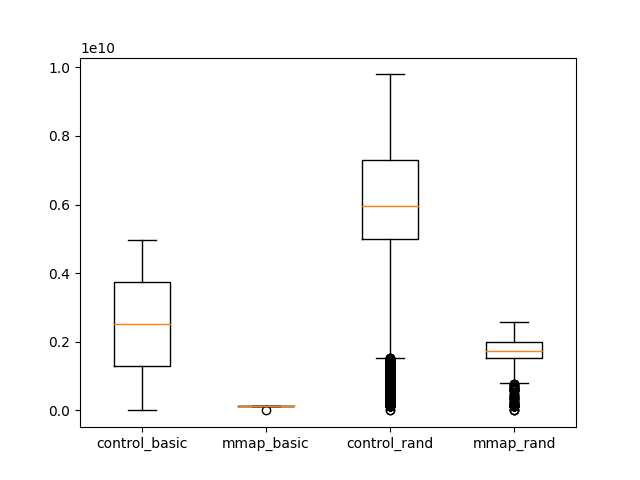
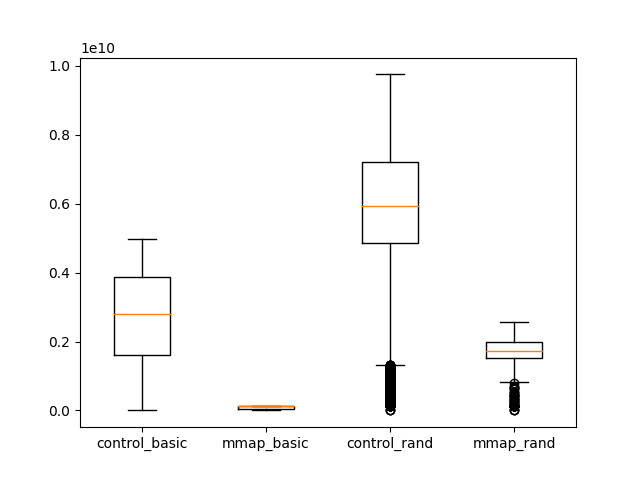
mmap_test: Timing Data
Starting MMap stress test

Starting basic control test
Starting iteration 0
Starting worker process 14991
exec time = 3.9298479557037354
Starting iteration 1
Starting worker process 14993
exec time = 3.9578299522399902
Starting iteration 2
Starting worker process 14994
exec time = 3.977524995803833

Starting basic mmap test
Starting iteration 0
Starting worker process 14995
exec time = 0.028063535690307617
Starting iteration 1
Starting worker process 14996
exec time = 0.026615381240844727
Starting iteration 2
Starting worker process 14997
exec time = 0.026166439056396484

Starting random file read control test
Starting iteration 0
Starting worker process 14998
exec time = 17.447582483291626
Starting iteration 1
Starting worker process 15089
exec time = 16.219954013824463
Starting iteration 2
Starting worker process 15773
exec time = 13.685403108596802

Starting random file read mmap test
Starting iteration 0
Starting worker process 19172
exec time = 92.77089738845825
Starting iteration 1
Starting worker process 19355
exec time = 96.53563499450684
Starting iteration 2
Starting worker process 19514
exec time = 95.24206233024597

Finished MMap stress test

Saving Results
--------------
Results saved to ./experiments/mmap_test/results.png

diff --git a/colbert/tests/mmap_test.py b/colbert/tests/mmap_test.py
@@ -49,7 +49,6 @@ def read_into_buffer(mmap, read_buf_size, read_rand):
 # run_test(mmap: bool)
 #   mmap -          if true, use memory mapping to save files to disk
 #                   else, save to disk and load entire files into memory
-#   target_dir -    where to write the file to
 #   test_data -     contents of file to write
 #   test_iter -     how many test cycles to run
 #   read_buf_size - how much data to read into memory
@@ -68,8 +67,8 @@ def run_test(mmap, test_iter, read_buf_size, read_rand):
 
     for i in range(test_iter):
         print("Starting iteration {}".format(i))
-        write_to_disk(target_dir)
 
+        start_time = time.time()
         # Spawn a process and track the worker's PID
         worker_proc = Process(target=read_into_buffer, args=(mmap, read_buf_size, read_rand))
         worker_proc.start()
@@ -84,8 +83,10 @@ def run_test(mmap, test_iter, read_buf_size, read_rand):
             time.sleep(SAMPLE_PERIOD_SEC)
 
         worker_proc.join()
+        end_time = time.time()
 
         results.extend(cur_result)
+        print("exec time = {}".format(end_time - start_time))
 
     return results
 
